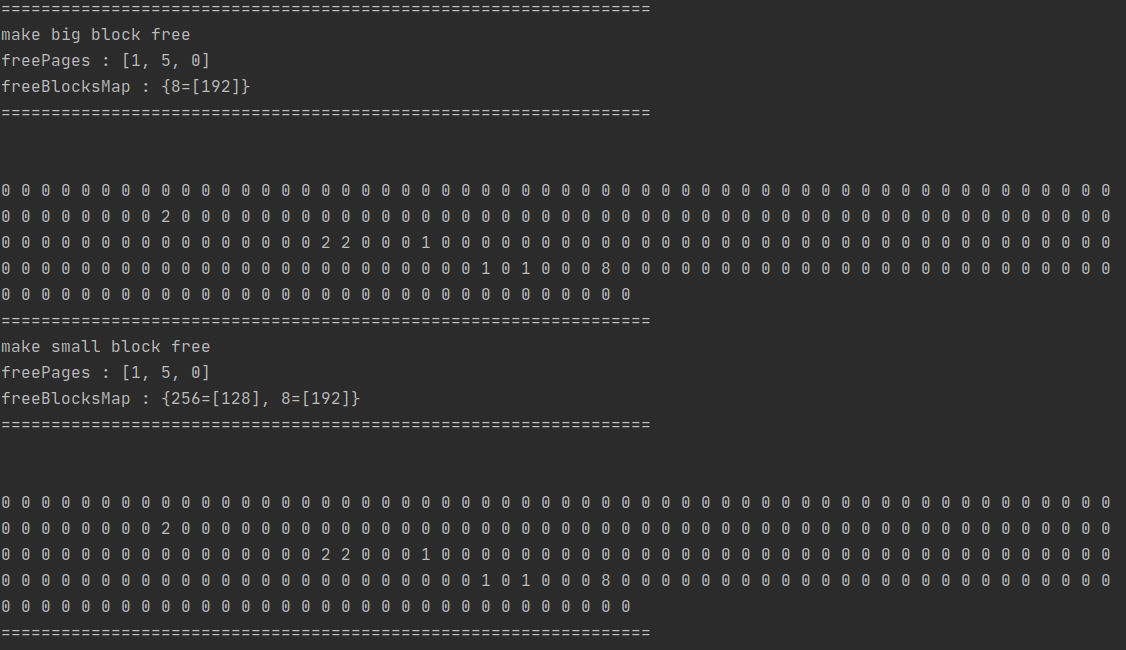
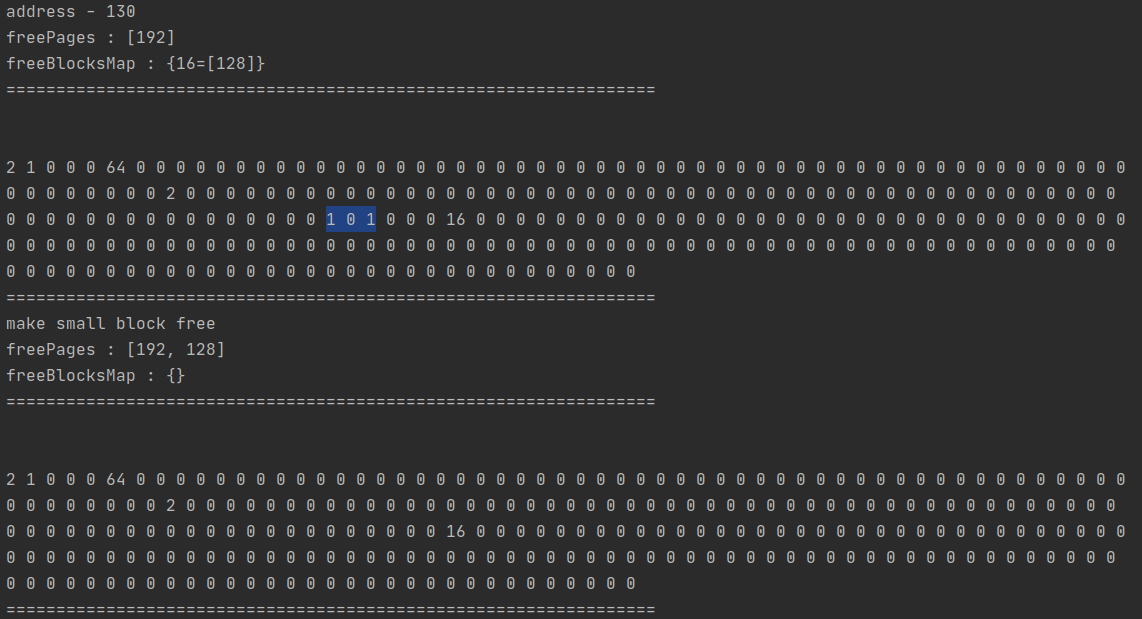
fix problem with big blocks in mem_free and update pictures

Changed region(s): [[0.0, 0.2456, 0.9947, 0.6753], [0.0, 0.7674, 0.9947, 1.0], [0.0, 0.0, 0.5595, 0.1842]]

diff --git a/Page-Allocator/src/main/java/org/example/Allocator.java b/Page-Allocator/src/main/java/org/example/Allocator.java
@@ -210,7 +210,7 @@ public class Allocator implements MemoryAllocator {
                 int pageNumber = memory[address + 1];
                 List<Integer> connectedPages = new ArrayList<>();
                 for (int i = 0; i < pageNumber; i++) {
-                    connectedPages.add(address + 1 + NEXT_PAGE_DESCRIPTOR_SIZE * i);
+                    connectedPages.add(getLengthOfBlock(address + 1 + NEXT_PAGE_DESCRIPTOR_SIZE * i));
                 }
                 for (Integer connectedPage : connectedPages) {
                     memory[connectedPage] = getIndexOfEnumInByte(PageState.FREE);

diff --git a/Page-Allocator/src/main/java/org/example/App.java b/Page-Allocator/src/main/java/org/example/App.java
@@ -27,9 +27,5 @@ public class App {
         System.out.println("make big block free");
         allocator.mem_free(address);
         allocator.mem_dump();
-
-        System.out.println("make small block free");
-        allocator.mem_free(address12);
-        allocator.mem_dump();
     }
 }
